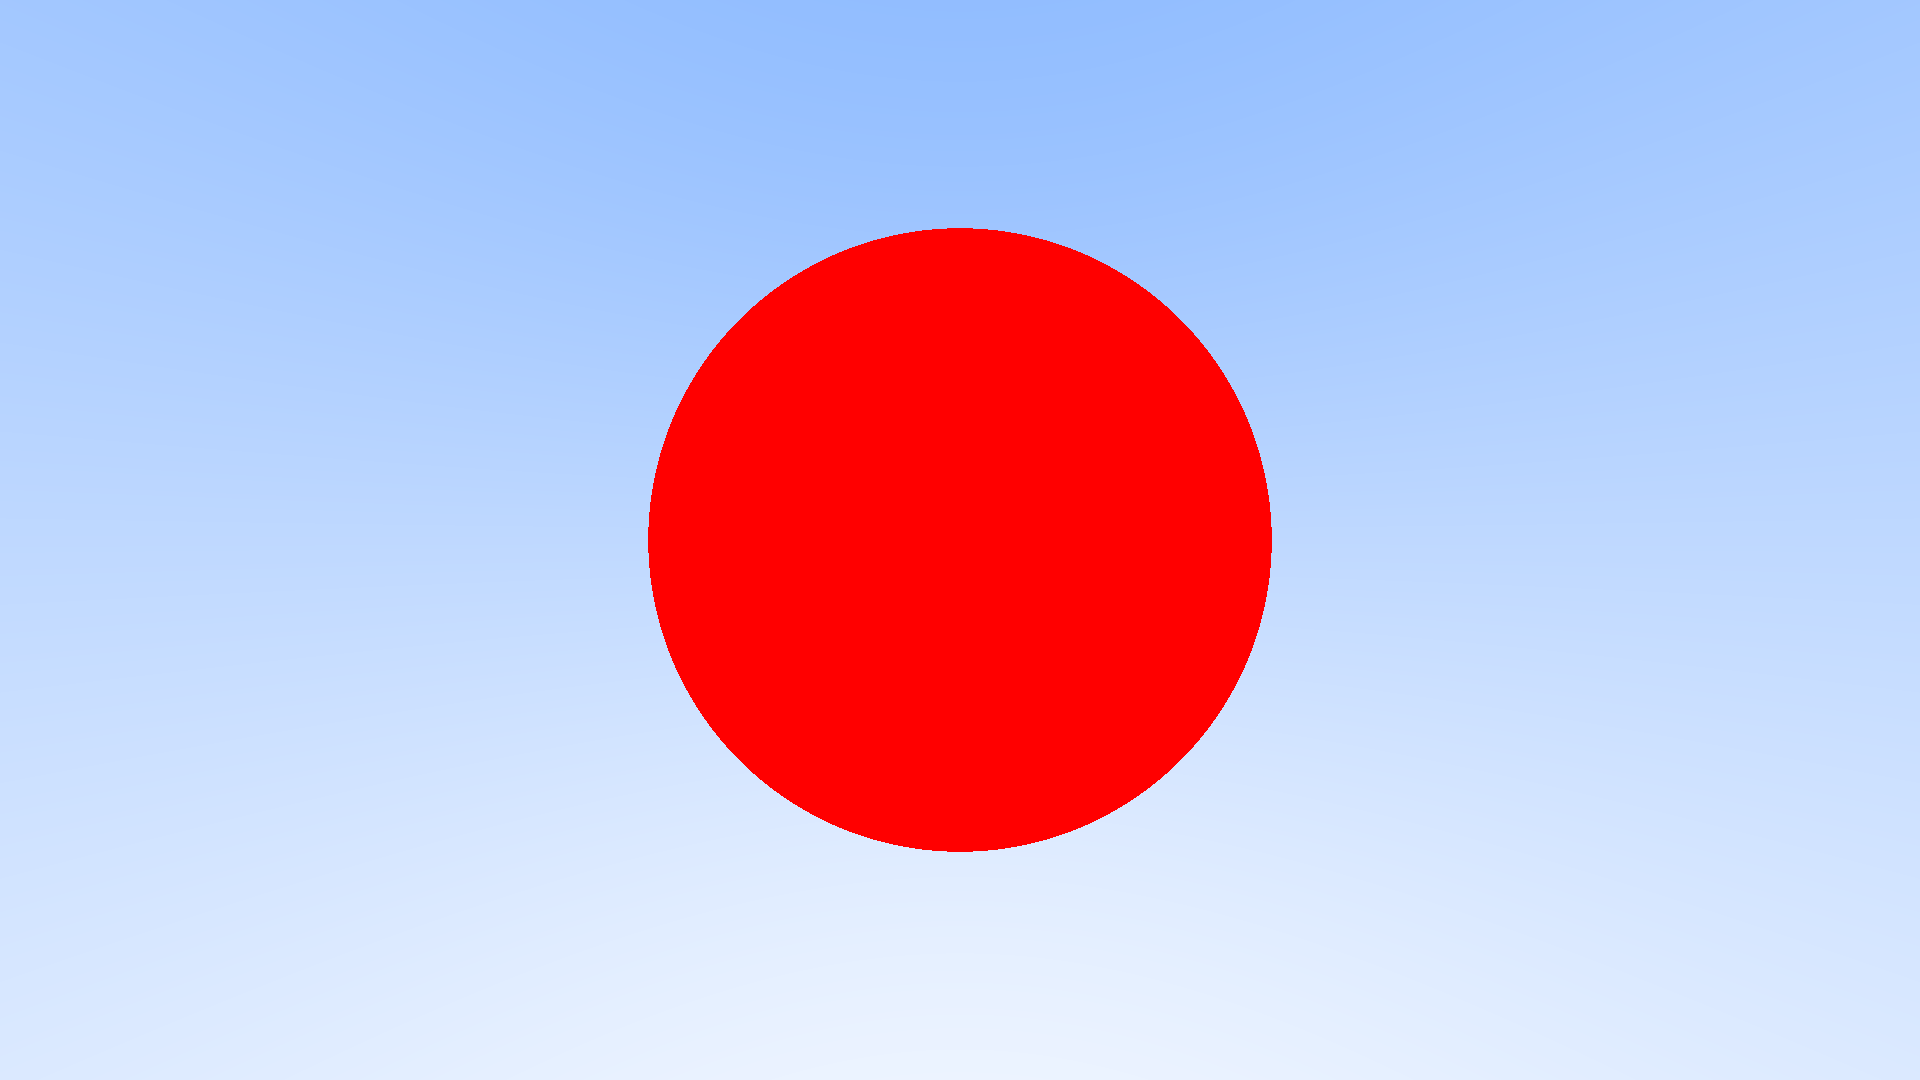
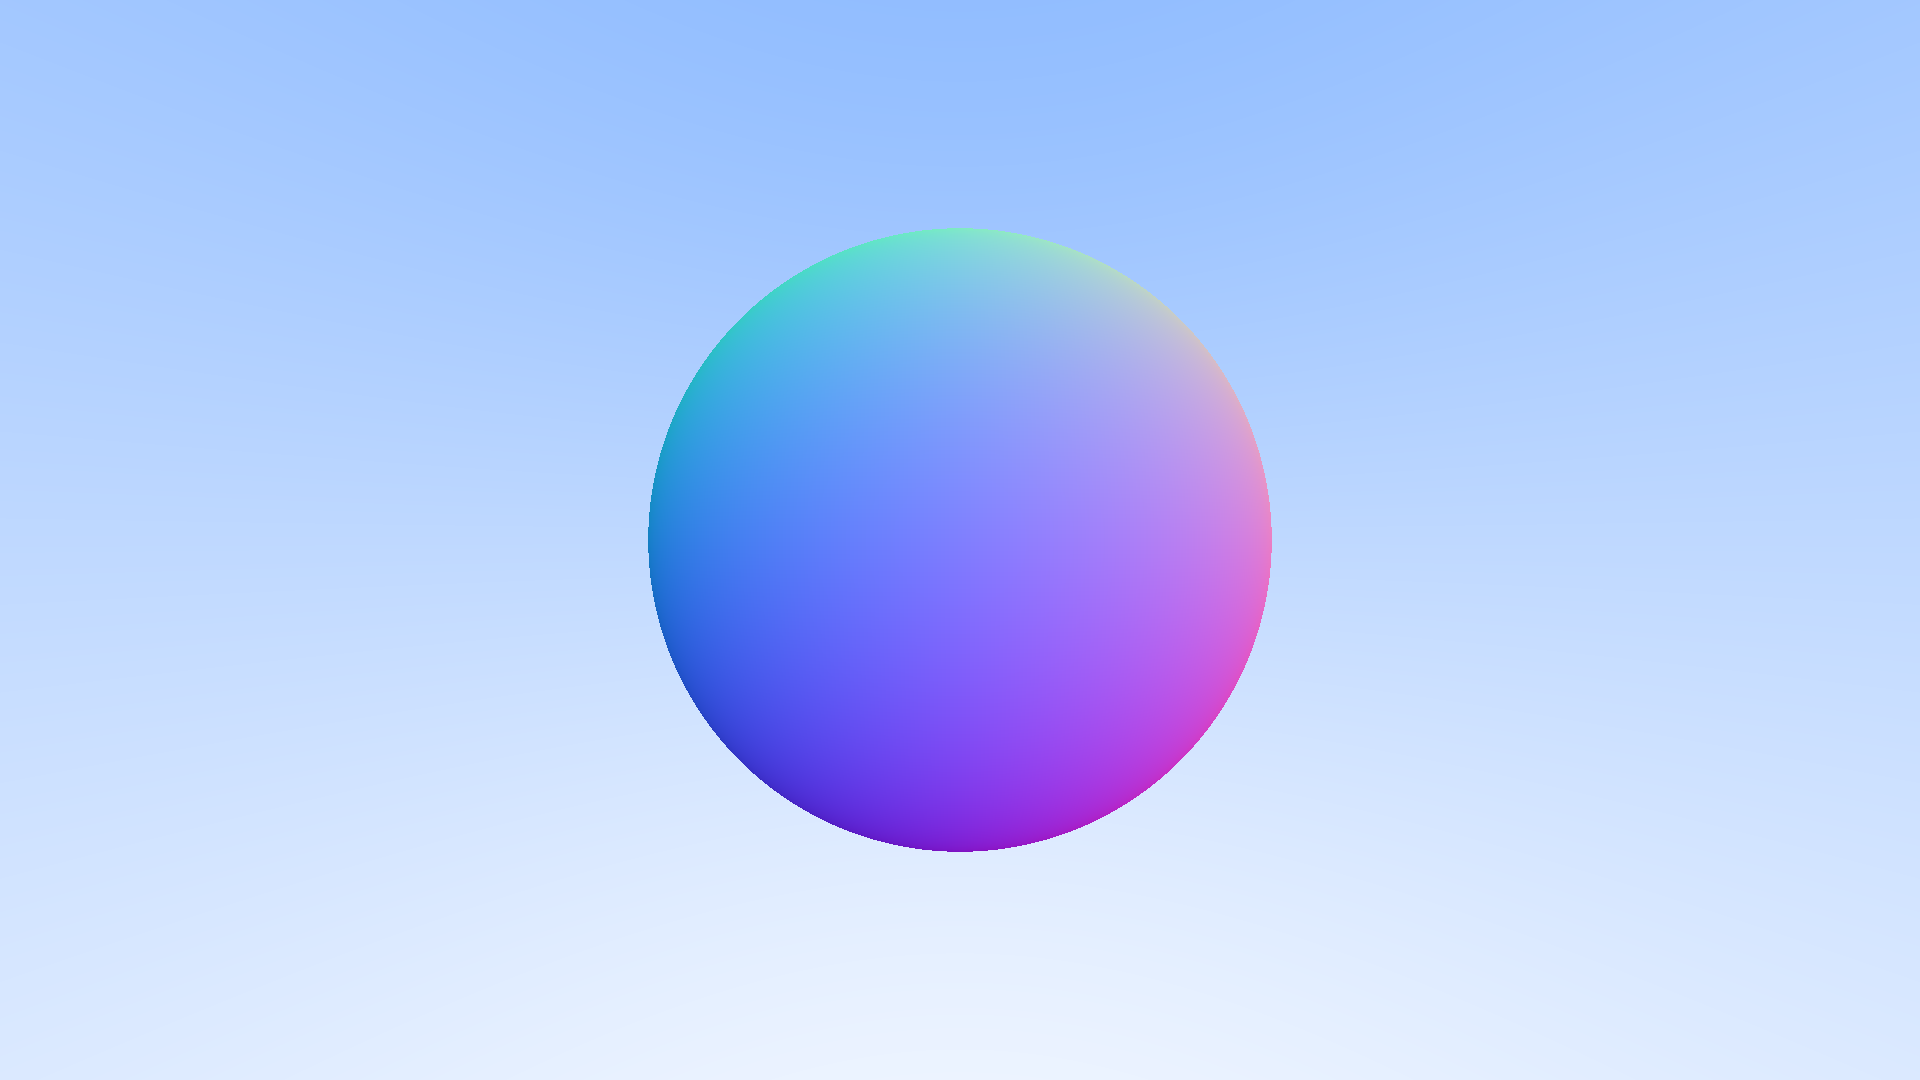
rendering normals

Changed region(s): [[0.3125, 0.2139, 0.6875, 0.7944]]

diff --git a/src/main.py b/src/main.py
@@ -2,6 +2,7 @@ from time import time
 from vec3 import *
 from color import *
 from ray import *
+import math
 import taichi as ti
 
 ti.init(arch=ti.gpu)
@@ -33,9 +34,13 @@ def hit_sphere(center, radius, ray):
     a = ray.direction.dot(ray.direction)
     b = -2.0 * ray.direction.dot(oc)
     c = oc.dot(oc) - radius*radius
-    discriminant = b*b - 4*a*c
-    return discriminant >= 0
-
+    discriminant = b*b - 4.0*a*c
+    t = 0.0
+    if discriminant < 0.0:
+        t = -1.0
+    else:
+        t = (-b - ti.sqrt(discriminant)) / (2.0*a)
+    return t
 
 @ti.func
 def background(r: Ray):
@@ -47,8 +52,10 @@ def background(r: Ray):
 @ti.func
 def ray_color(r: Ray):
     color = BLACK
-    if hit_sphere(Point3(0.0, 0.0, -1.0), 0.5, r):
-        color = RED
+    t = hit_sphere(Point3(0.0, 0.0, -1.0), 0.5, r)
+    if t > 0.0:
+        color = (r.at(t) - Vec3(0.0, 0.0, -1.0)).normalized()
+        color = 0.5 * (color + 1)
     else:
         color = background(r)
     return color
